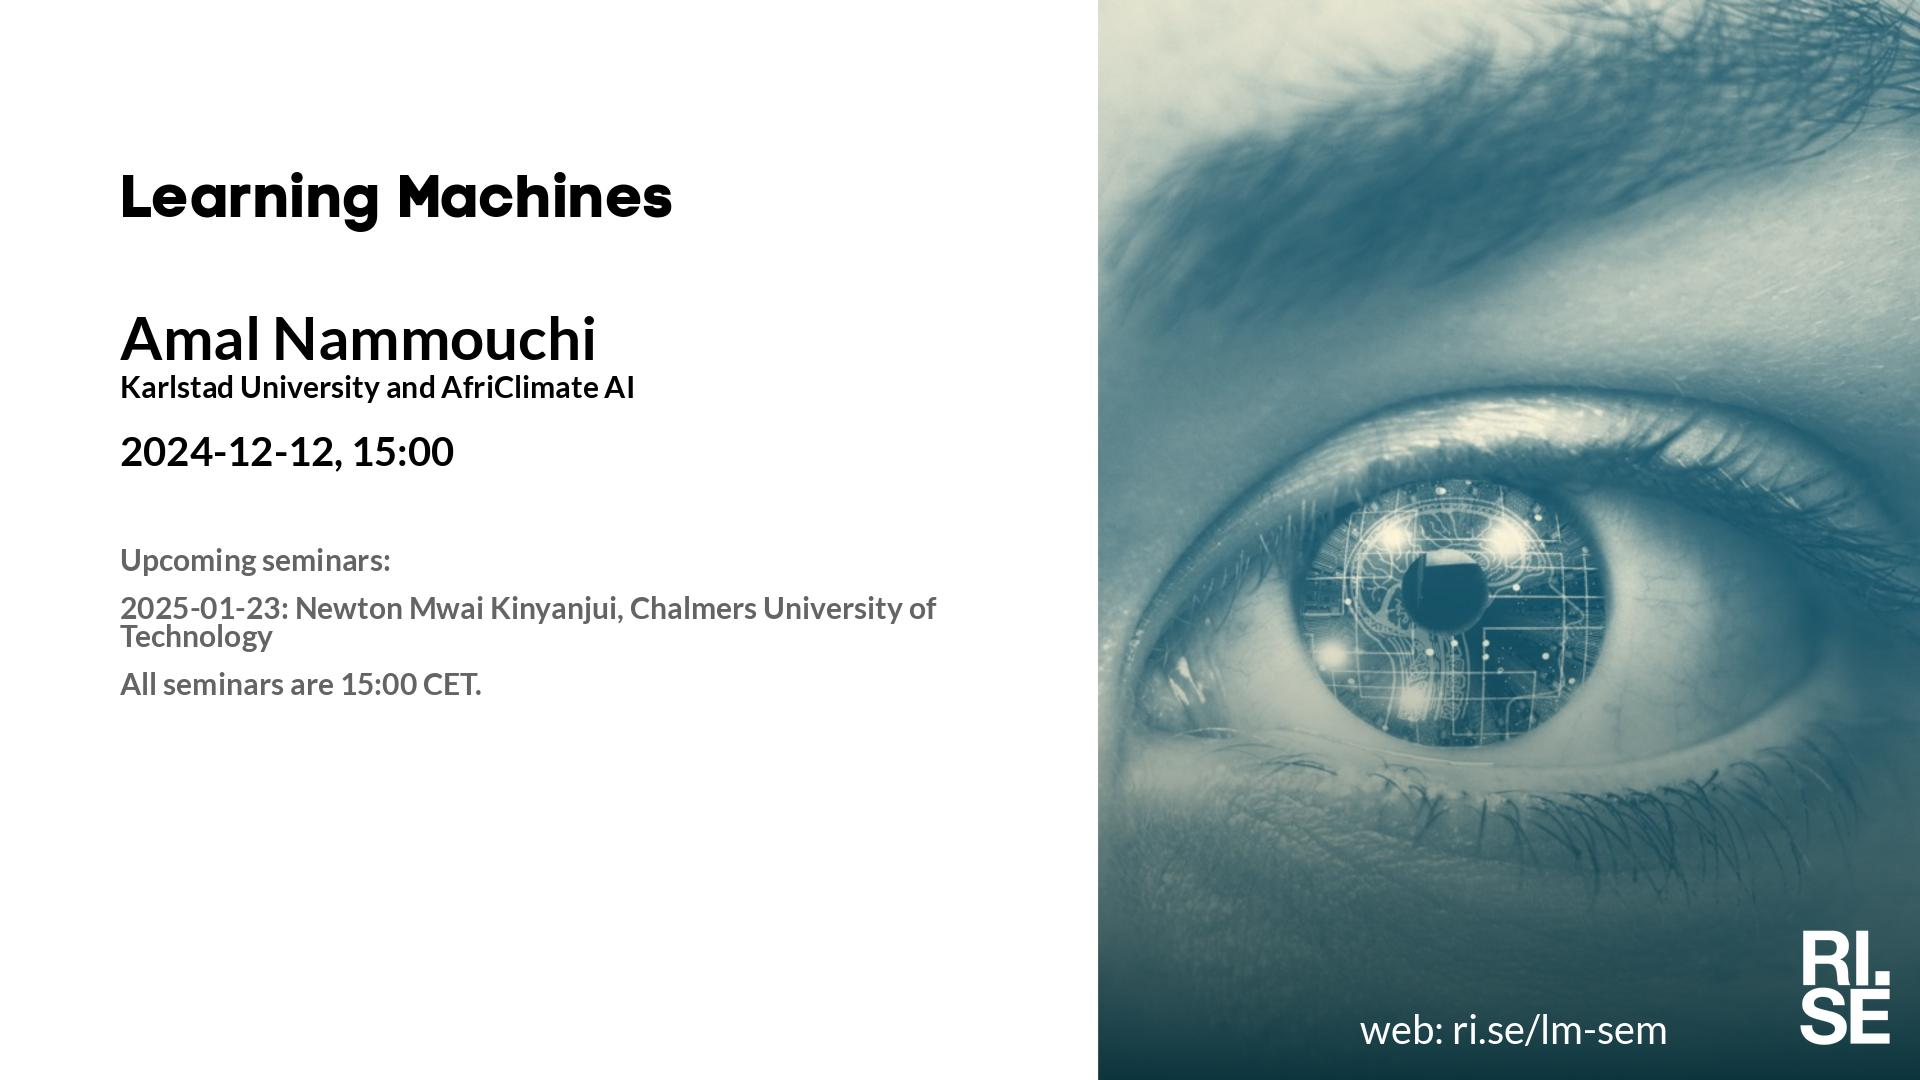
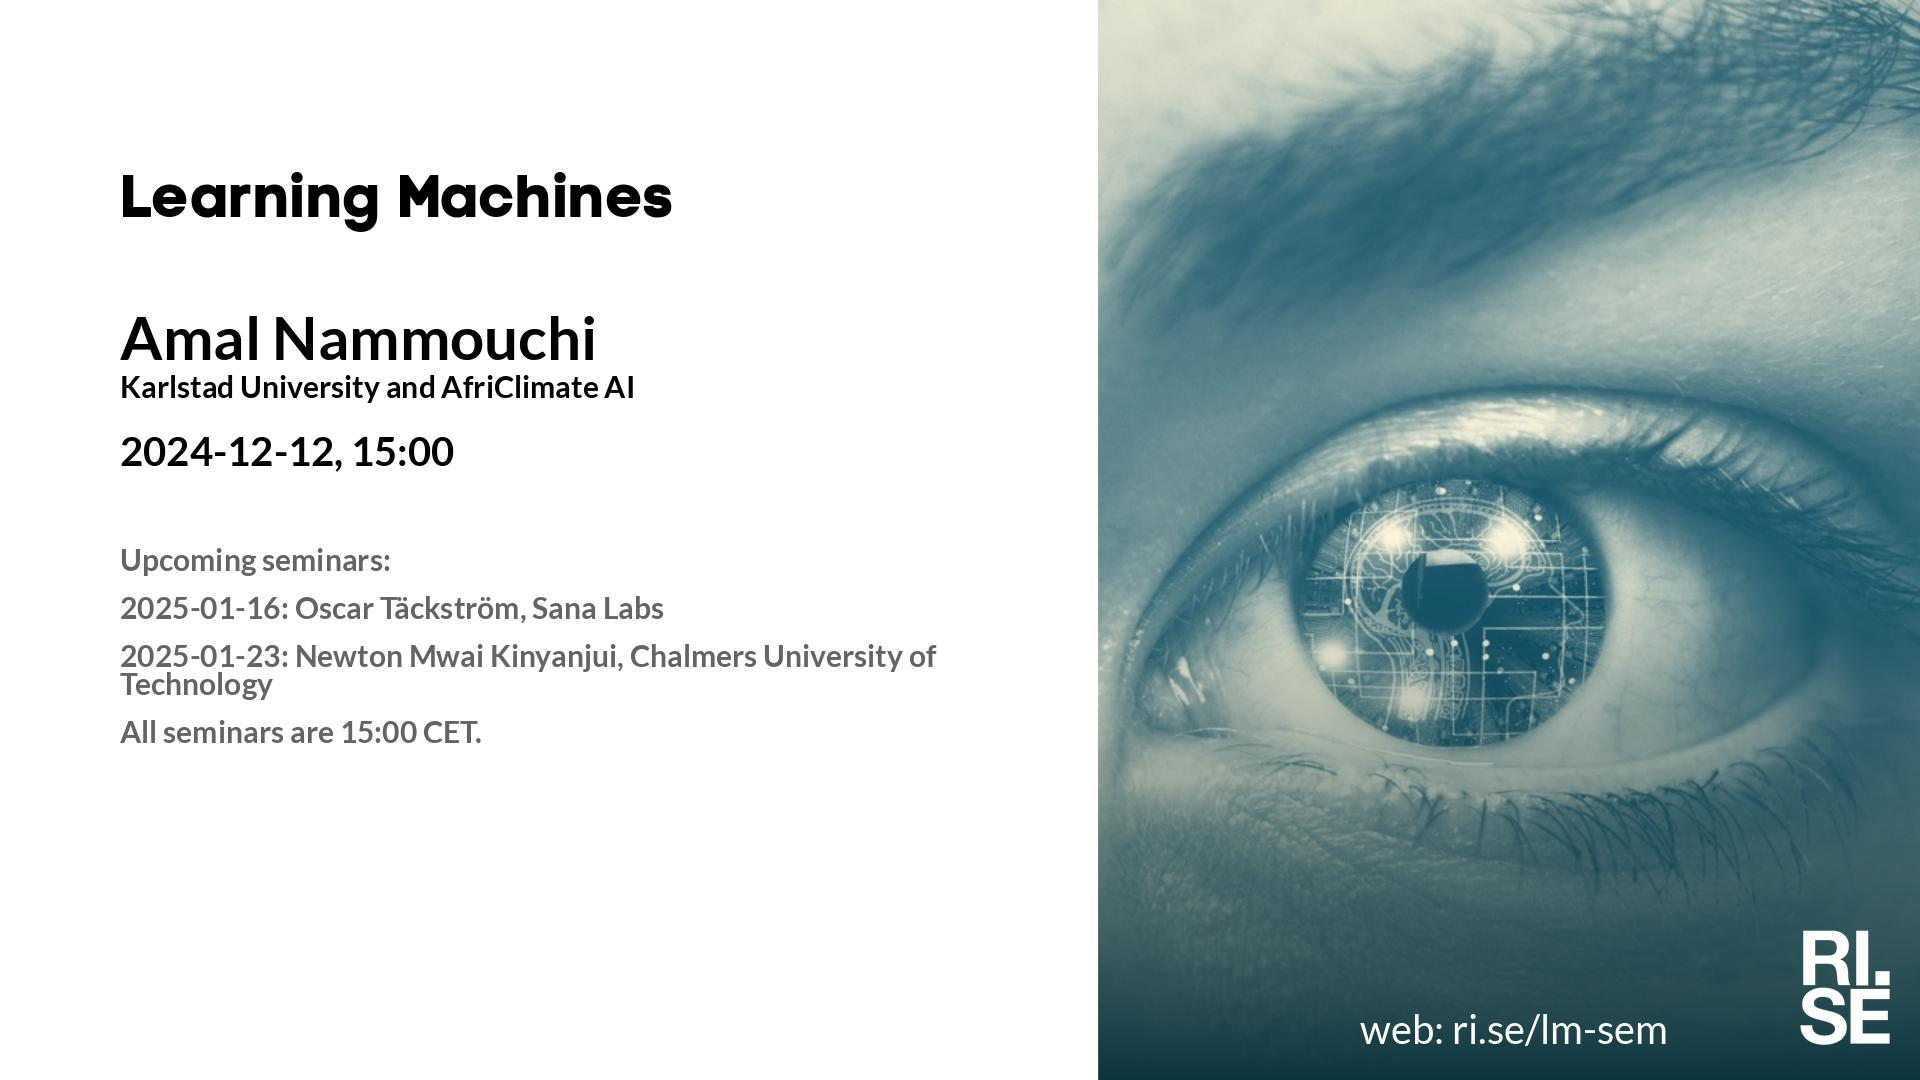
Updated plan on web site.

Changed region(s): [[0.0625, 0.55, 0.5, 0.7028]]

diff --git a/lm/index.md b/lm/index.md
@@ -5,11 +5,10 @@ metatags: "<meta name=\"robots\" content=\"noindex,nofollow\" />"
 <style type="text/css" scoped>
 td, th {border: 1px solid #ccc; padding: 0.6em;}
 table {border-collapse: collapse;}
-</style># Learning Machines Plan 2024-10-22
+</style># Learning Machines Plan 2024-10-28
 
 | date | speaker                                   | photo | shareable | meeting backdrop | youtube thumbnail | <a title="Speaker, Title, Abstract, Bio, Photo. Strikethrough means we don't have it yet.">comment</a>        |
 | ---- | ----------------------------------------- | ----- | ----- | ----- | ----- | -------------- |
-|  2024-10-03  |  [Jakob Ambsdorf, University of Copenhagen & Pioneer Centre for AI](2024-10-03.md)  |  [photo](photo-jakob-ambsdorf.jpg)  |  [social media ](social-media-jakob-ambsdorf.jpg)  |  [meeting backdrop ](meeting-backdrop-jakob-ambsdorf.jpg)  |  [youtube thumbnail ](youtube-thumbnail-jakob-ambsdorf.jpg)  |  STABP  |
 | <span style="color:red"> 2024-10-10 </span> | <span style="color:red"> CANCELLED </span> | <span style="color:red">  </span> | <span style="color:red">  </span> | <span style="color:red">  </span> | <span style="color:red">  </span> | <span style="color:red"> CANCELLED </span> |
 |  2024-10-17  |  [Matthias Obst, University of Gothenburg](2024-10-17.md)  |  [photo](photo-matthias-obst.jpg)  |  [social media ](social-media-matthias-obst.jpg)  |  [meeting backdrop ](meeting-backdrop-matthias-obst.jpg)  |  [youtube thumbnail ](youtube-thumbnail-matthias-obst.jpg)  |  STABP  |
 |  2024-10-24  |  [Ankit Kariryaa, University of Copenhagen](2024-10-24.md)  |  [photo](photo-ankit-kariryaa.jpg)  |  [social media ](social-media-ankit-kariryaa.jpg)  |  [meeting backdrop ](meeting-backdrop-ankit-kariryaa.jpg)  |  [youtube thumbnail ](youtube-thumbnail-ankit-kariryaa.jpg)  |  STABP  |
@@ -22,7 +21,7 @@ table {border-collapse: collapse;}
 |  2024-12-12  |  [Amal Nammouchi, Karlstad University and AfriClimate AI](2024-12-12.md)  |    |  [social media ](social-media-amal-nammouchi.jpg)  |  [meeting backdrop ](meeting-backdrop-amal-nammouchi.jpg)  |  [youtube thumbnail ](youtube-thumbnail-amal-nammouchi.jpg)  |  S~~TABP~~  |
 | <span style="color:red"> 2024-12-19 </span> | <span style="color:red"> Jullov </span> | <span style="color:red">  </span> | <span style="color:red">  </span> | <span style="color:red">  </span> | <span style="color:red">  </span> | <span style="color:red"> CANCELLED </span> |
 | <span style="color:red"> 2024-12-26 </span> | <span style="color:red"> Jullov </span> | <span style="color:red">  </span> | <span style="color:red">  </span> | <span style="color:red">  </span> | <span style="color:red">  </span> | <span style="color:red"> CANCELLED </span> |
-| <span style="color:grey"> 2025-01-16 </span> | <span style="color:grey"> Oscar T. ? </span> | <span style="color:grey">  </span> | <span style="color:grey">  </span> | <span style="color:grey">  </span> | <span style="color:grey">  </span> | <span style="color:grey"> S~~TABP~~ </span> |
+|  2025-01-16  |  [Oscar Täckström, Sana Labs](2025-01-16.md)  |    |  [social media ](social-media-oscar-tackstrom.jpg)  |  [meeting backdrop ](meeting-backdrop-oscar-tackstrom.jpg)  |  [youtube thumbnail ](youtube-thumbnail-oscar-tackstrom.jpg)  |  S~~TABP~~  |
 |  2025-01-23  |  [Newton Mwai Kinyanjui, Chalmers University of Technology](2025-01-23.md)  |    |  [social media ](social-media-newton-mwai-kinyanjui.jpg)  |  [meeting backdrop ](meeting-backdrop-newton-mwai-kinyanjui.jpg)  |  [youtube thumbnail ](youtube-thumbnail-newton-mwai-kinyanjui.jpg)  |  S~~TABP~~  |
 | <span style="color:purple"> 2025-01-30 </span> | <span style="color:purple"> *Up for grabs!!!* </span> | <span style="color:purple">  </span> | <span style="color:purple">  </span> | <span style="color:purple">  </span> | <span style="color:purple">  </span> | <span style="color:purple"> ~~STABP~~ </span> |
 | <span style="color:purple"> 2025-02-06 </span> | <span style="color:purple"> *Up for grabs!!!* </span> | <span style="color:purple">  </span> | <span style="color:purple">  </span> | <span style="color:purple">  </span> | <span style="color:purple">  </span> | <span style="color:purple"> ~~STABP~~ </span> |

diff --git a/lm/2025-01-16.md b/lm/2025-01-16.md
@@ -6,7 +6,7 @@ Welcome to this week's Learning Machines seminar.
 
 **Title:** N/A
 
-**Speaker:** Newton Mwai Kinyanjui, Chalmers University of Technology
+**Speaker:** Oscar Täckström, Sana Labs
 
 **Abstract:** N/A
 
@@ -16,10 +16,11 @@ Welcome to this week's Learning Machines seminar.
 
 **Date:** 2025-01-16 15:00
 
-**Zoom link:** [https://rise.zoom.us/j/208117140](https://rise.zoom.us/j/208117140)
+**Zoom link:** [N/A](N/A)
 
 **Upcoming seminars:**
 
+* 2025-01-23: Newton Mwai Kinyanjui, Chalmers University of Technology
 * All seminars are 15:00 CET.
 
 More information and coming seminars: [https://ri.se/lm-sem](https://ri.se/lm-sem)

diff --git a/lm/2024-12-12.md b/lm/2024-12-12.md
@@ -16,10 +16,11 @@ Welcome to this week's Learning Machines seminar.
 
 **Date:** 2024-12-12 15:00
 
-**Zoom link:** [https://rise.zoom.us/j/208117140](https://rise.zoom.us/j/208117140)
+**Zoom link:** [N/A](N/A)
 
 **Upcoming seminars:**
 
+* 2025-01-16: Oscar Täckström, Sana Labs
 * 2025-01-23: Newton Mwai Kinyanjui, Chalmers University of Technology
 * All seminars are 15:00 CET.
 
